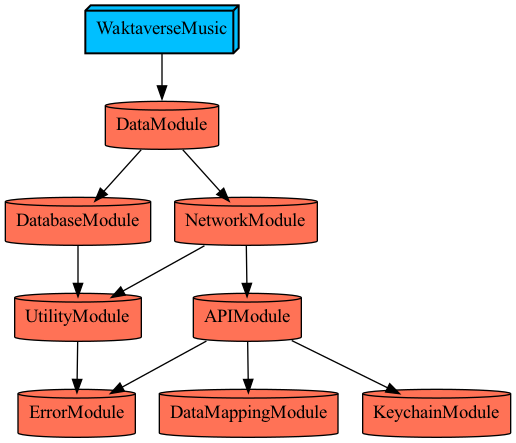
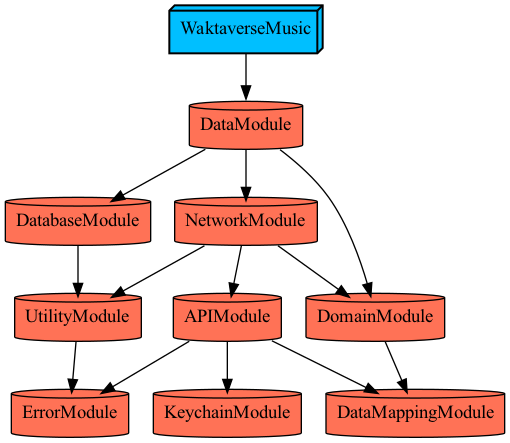
🎉 :: DomainModule 추가

diff --git a/Projects/Services/DomainModule/Tests/TargetTest.swift b/Projects/Services/DomainModule/Tests/TargetTest.swift
@@ -1,0 +1,17 @@
+import XCTest
+
+class TargetTests: XCTestCase {
+
+    override func setUpWithError() throws {
+        // Put setup code here. This method is called before the invocation of each test method in the class.
+    }
+
+    override func tearDownWithError() throws {
+        // Put teardown code here. This method is called after the invocation of each test method in the class.
+    }
+
+    func testExample() throws {
+        XCTAssertEqual("A", "A")
+    }
+
+}

diff --git a/Plugin/UtilityPlugin/ProjectDescriptionHelpers/Dependency+SPM.swift b/Plugin/UtilityPlugin/ProjectDescriptionHelpers/Dependency+SPM.swift
@@ -6,6 +6,7 @@ public extension TargetDependency {
 
 public extension TargetDependency.SPM {
     static let Moya = TargetDependency.external(name: "Moya")
+    static let RxMoya = TargetDependency.external(name: "RxMoya")
     static let Kingfisher = TargetDependency.external(name: "Kingfisher")
     static let YoutubeKit = TargetDependency.external(name: "YoutubeKit")
     static let YouTubePlayerKit = TargetDependency.external(name: "YouTubePlayerKit")

diff --git a/Plugin/UtilityPlugin/ProjectDescriptionHelpers/Dependency+Project.swift b/Plugin/UtilityPlugin/ProjectDescriptionHelpers/Dependency+Project.swift
@@ -19,4 +19,5 @@ public extension TargetDependency.Project.Service {
     static let DataModule = TargetDependency.service(name: "DataModule")
     static let DatabaseModule = TargetDependency.service(name: "DatabaseModule")
     static let NetworkModule = TargetDependency.service(name: "NetworkModule")
+    static let DomainModule = TargetDependency.service(name: "DomainModule")
 }

diff --git a/Projects/Services/NetworkModule/Project.swift b/Projects/Services/NetworkModule/Project.swift
@@ -7,7 +7,8 @@ let project = Project.makeModule(
     dependencies: [
         .Project.Module.UtilityModule,
         .Project.Service.APIModule,
-        .SPM.Moya,
+        .Project.Service.DomainModule,
+        .SPM.RxMoya,
         .SPM.RxSwift,
         .SPM.RxCocoa
     ]

diff --git a/Projects/Services/DomainModule/Sources/Demo.swift b/Projects/Services/DomainModule/Sources/Demo.swift
@@ -1,0 +1,6 @@
+///
+/// .gitkeep의 역할 수행과 `tuist generate`시 디렉터리가 나타나지 않는
+/// 현상을 방지하기 위해 생성된 파일입니다.
+///
+/// 현재 디렉터리에 새로운 파일을 추가할 때 이 파일을 지워주세요.
+///

diff --git a/Projects/Services/DataModule/Project.swift b/Projects/Services/DataModule/Project.swift
@@ -5,6 +5,7 @@ let project = Project.makeModule(
     name: "DataModule",
     product: .staticFramework,
     dependencies: [
+        .Project.Service.DomainModule,
         .Project.Service.DatabaseModule,
         .Project.Service.NetworkModule,
         .SPM.RxSwift

diff --git a/Projects/Services/DomainModule/Project.swift b/Projects/Services/DomainModule/Project.swift
@@ -1,0 +1,10 @@
+import ProjectDescription
+import ProjectDescriptionHelpers
+
+let project = Project.makeModule(
+    name: "DomainModule",
+    product: .staticFramework,
+    dependencies: [
+        .Project.Service.DataMappingModule
+    ]
+)

diff --git a/Projects/Services/APIModule/Project.swift b/Projects/Services/APIModule/Project.swift
@@ -8,7 +8,7 @@ let project = Project.makeModule(
         .Project.Module.KeychainModule,
         .Project.Module.ErrorModule,
         .Project.Service.DataMappingModule,
-        .SPM.Moya,
+        .SPM.RxMoya,
         .SPM.RxSwift
     ]
 )
